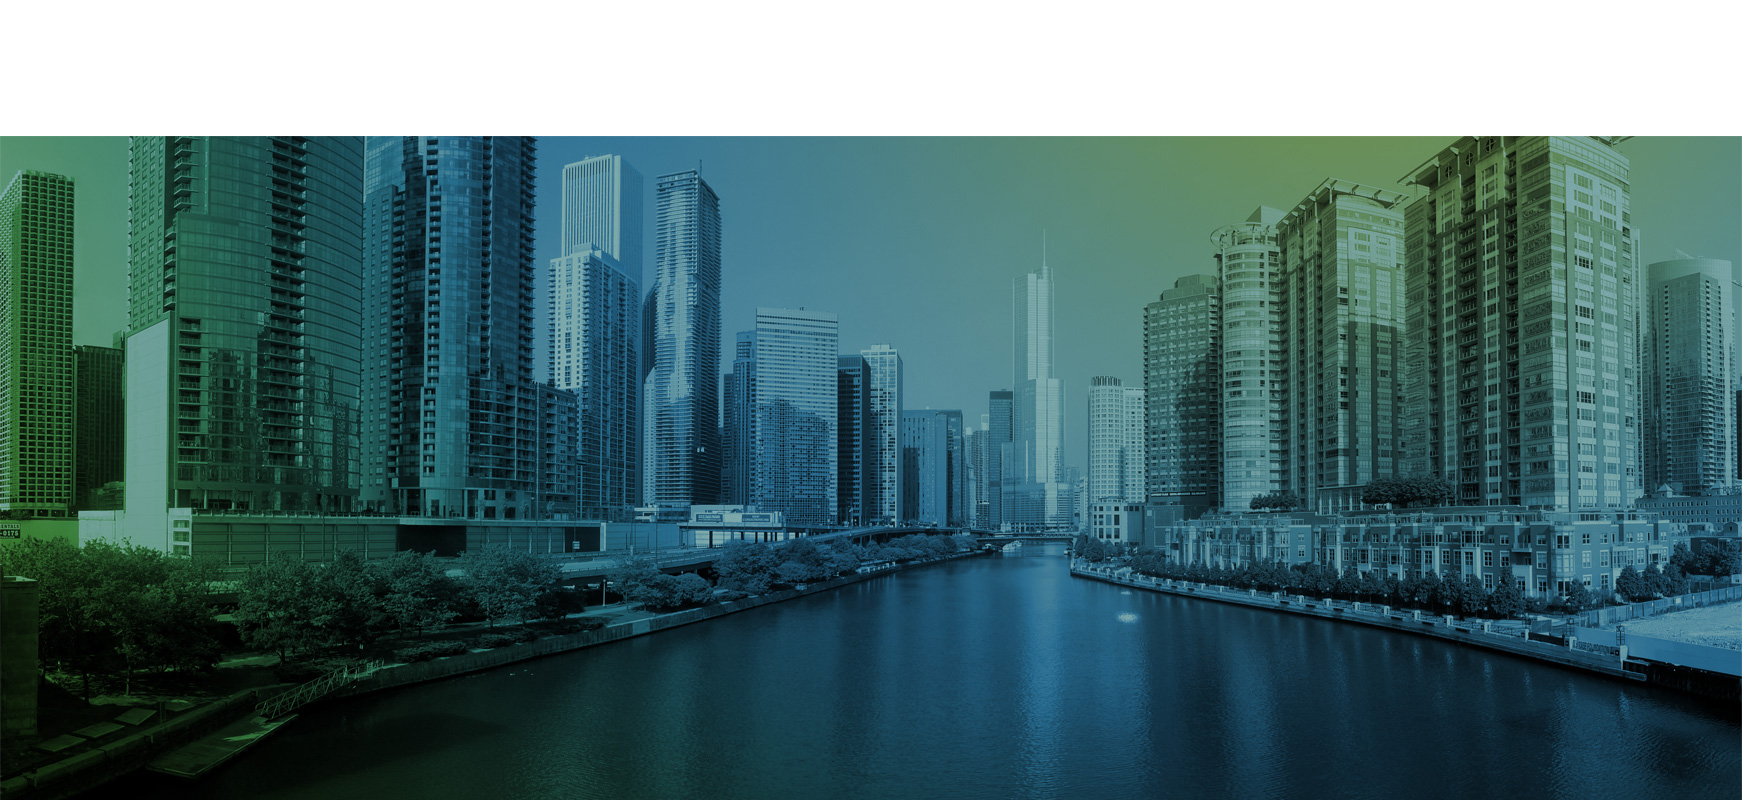
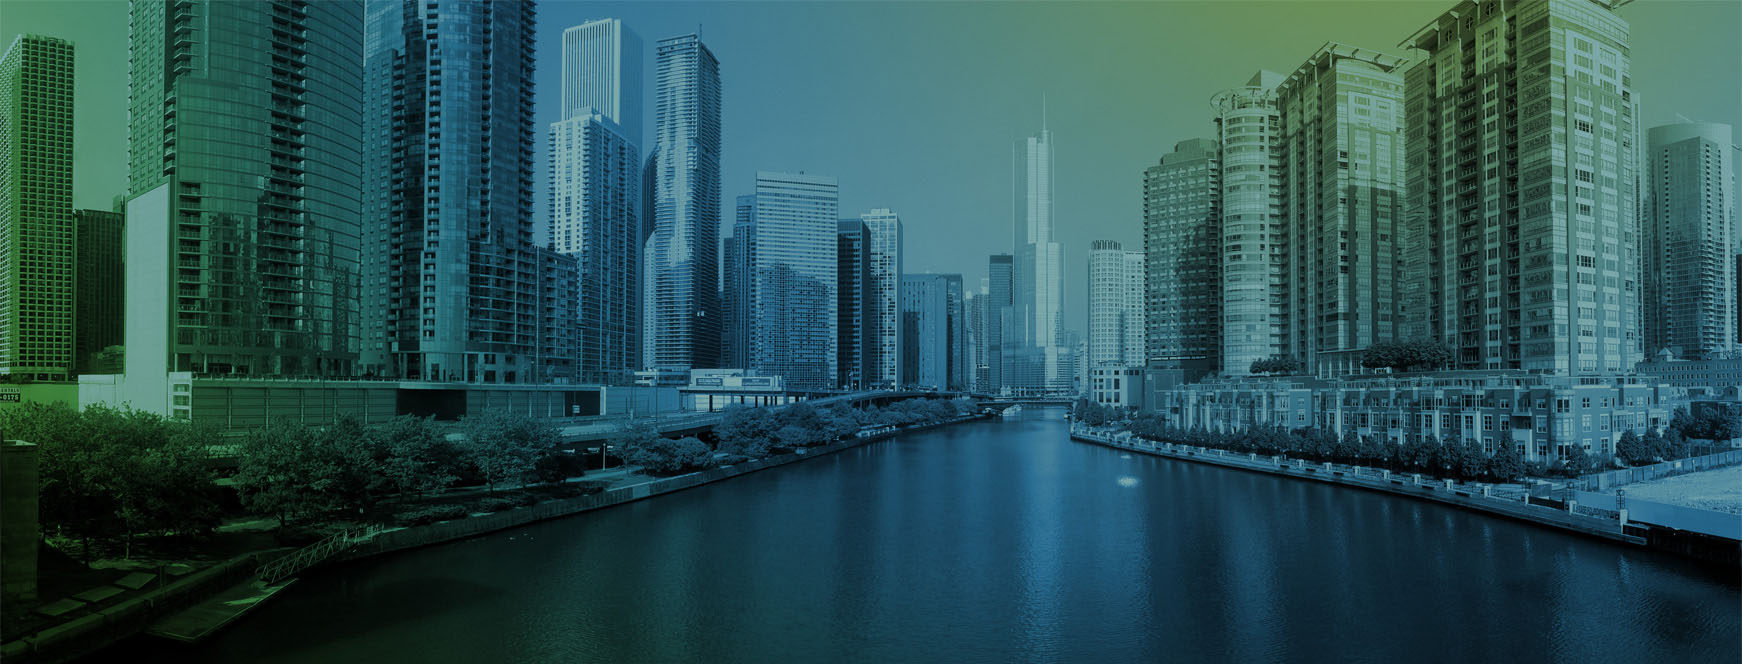
updated bg image style

diff --git a/stylesheets/index-stylesheet.css b/stylesheets/index-stylesheet.css
@@ -12,6 +12,7 @@ body { font-family: Helvetica, Arial, sans-serif; }
 body {
     background: url(../indexImgs/chicagoBG.jpg) no-repeat;
     background-color:#003366;
+    background-position:0px 141px;
 }
 
 #main {
@@ -20,6 +21,7 @@ body {
 
 header {
   margin-bottom: 29px;
+  width:100%;
 }
 
 ul#menu {
@@ -79,7 +81,7 @@ aside ul a {
 footer {
   padding-left: 60px;
   padding-top: 340px;
-  color: gray;
+  color: #537CA5;
   line-height: 130%;
   padding-bottom:30px;
   font-size: 12px;

diff --git a/stylesheets/blog-stylesheet.css b/stylesheets/blog-stylesheet.css
@@ -12,6 +12,7 @@ body { font-family: Helvetica, Arial, sans-serif; }
 body {
     background: url(../indexImgs/chicagoBG.jpg) no-repeat;
     background-color:#003366;
+    background-position:0px 141px;
 }
 
 #main {
@@ -86,7 +87,7 @@ aside h3 {
 footer {
   padding-left: 60px;
   padding-top: 50px;
-  color: gray;
+  color: #537CA5;
   line-height: 130%;
   padding-bottom:30px;
   font-size: 12px;

diff --git a/index.html b/index.html
@@ -71,7 +71,7 @@
 
     <footer>
       <div class="container">
-        <p>Copyright &copy 2014  David Lamps<br />
+        <p>Copyright &copy 2014  David Lamps<br>
         All Rights Reserved</p>
       </div><!--end footer container-->
     </footer>
